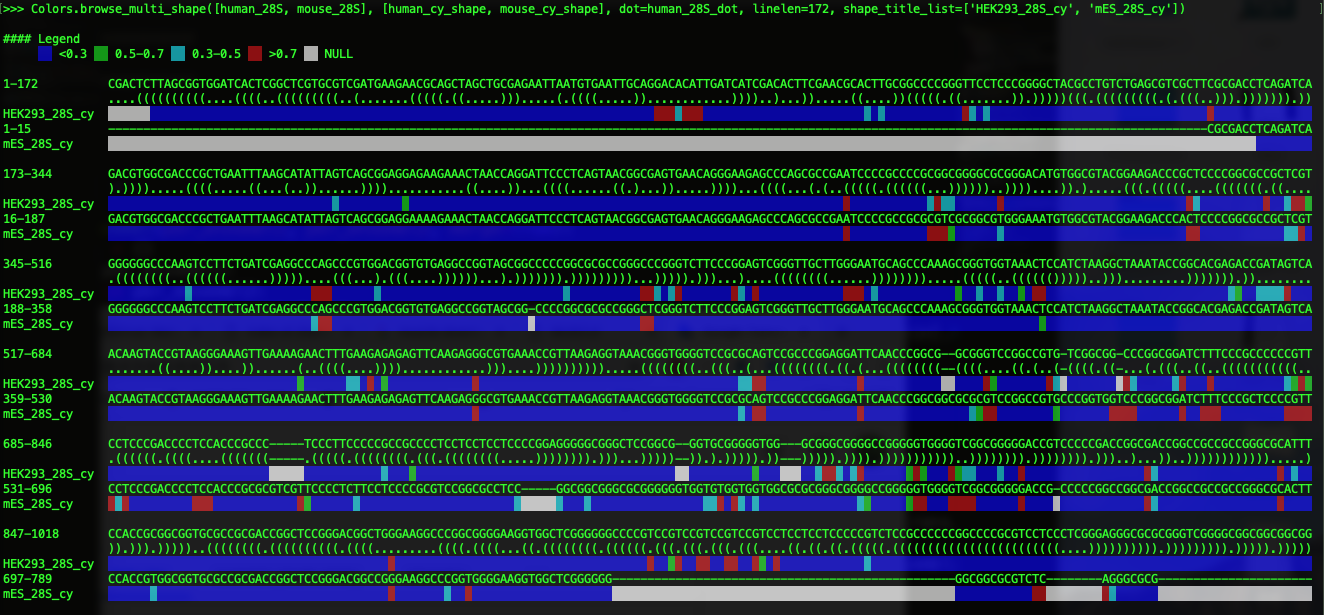
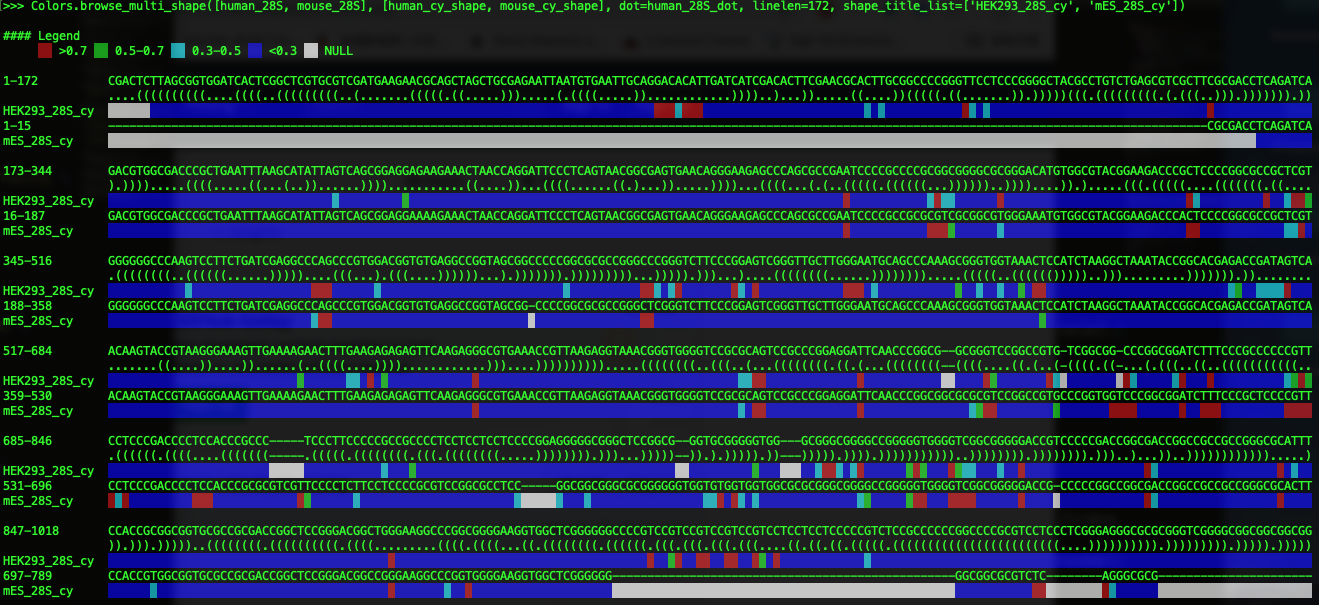
small bug

diff --git a/Colors.py b/Colors.py
@@ -163,7 +163,7 @@ def browse_shape(sequence, shape_list_list, linelen=200, dot="", shape_title_lis
     blue_legend = format("  ", bc="blue")+" <0.3 "
     null_legend = format("  ", bc="lightgray")+" NULL "
     print >>OUT, "\n#### Legend"
-    print >>OUT, " "*5 + blue_legend + green_legend + cyan_legend + red_legend + null_legend + "\n"
+    print >>OUT, " "*5 + red_legend + green_legend + cyan_legend + blue_legend + null_legend + "\n"
     
     ### Calculate AUC
     if dot:
@@ -236,7 +236,7 @@ def browse_multi_shape(sequence_list, shape_list_list, linelen=200, dot="", shap
     blue_legend = format("  ", bc="blue")+" <0.3 "
     null_legend = format("  ", bc="lightgray")+" NULL "
     print >>OUT, "\n#### Legend"
-    print >>OUT, " "*5 + blue_legend + green_legend + cyan_legend + red_legend + null_legend + "\n"
+    print >>OUT, " "*5 + red_legend + green_legend + cyan_legend + blue_legend + null_legend + "\n"
     
     ### Print sequence, structure and shape
     i = 0
